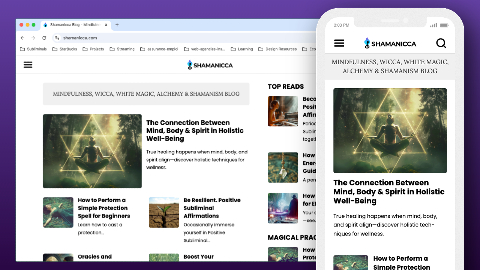
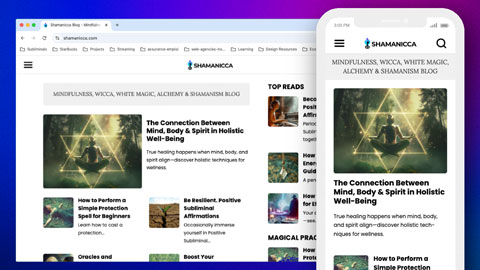
Fix: modifying URL for ecom Shamanicca

diff --git a/src/pages/HomePage.scss b/src/pages/HomePage.scss
@@ -17,8 +17,8 @@ header{
       justify-content: center;
       background-size: cover;
       //background-image:linear-gradient(rgba(0, 0, 0, 0), rgba(0, 0, 0, 1)),  url('../assets/images/header-bg-lg.jpg');
-      //background-image: linear-gradient(rgba(0, 0, 0, 0), rgba(0, 0, 0, 1)), url('../assets/images/header-bg-sm.jpg');
-      background-image: linear-gradient(rgba(0, 0, 0, 0), rgba(0, 0, 0, 1)), url('../assets/images/hero-background.png');
+      background-image: linear-gradient(rgba(0, 0, 0, 0), rgba(0, 0, 0, 1)), url('../assets/images/header-bg-sm.jpg');
+      //background-image: linear-gradient(rgba(0, 0, 0, 0), rgba(0, 0, 0, 1)), url('../assets/images/hero-background.png');
       
       //background-attachment: fixed;
       -webkit-backface-visibility: hidden;
@@ -27,21 +27,21 @@ header{
       @include for-tablet {
         padding-top: 0;
         padding-bottom: 0;
-        height: 66vh;
+        height: 100vh;
         //background-image:linear-gradient(rgba(0, 0, 0, 0), rgba(0, 0, 0, 1)),  url('../assets/images/header-bg-lg.jpg');
-        //background-image: linear-gradient(rgba(0, 0, 0, 0), rgba(0, 0, 0, 1)), url('../assets/images/header-bg-md.jpg');
-        background-image: linear-gradient(rgba(0, 0, 0, 0), rgba(0, 0, 0, 1)), url('../assets/images/hero-background.png');
+        background-image: linear-gradient(rgba(0, 0, 0, 0), rgba(0, 0, 0, 1)), url('../assets/images/header-bg-md.jpg');
+        //background-image: linear-gradient(rgba(0, 0, 0, 0), rgba(0, 0, 0, 1)), url('../assets/images/hero-background.png');
       }
       @include for-desktop {
         padding-top: 0vh;
         height: 100vh;
-        //background-image:linear-gradient(rgba(0, 0, 0, 0), rgba(0, 0, 0, 1)),  url('../assets/images/header-bg-lg.jpg');
-        background-image: linear-gradient(rgba(0, 0, 0, 0), rgba(0, 0, 0, 1)), url('../assets/images/hero-background.png');
+        background-image:linear-gradient(rgba(0, 0, 0, 0), rgba(0, 0, 0, 1)),  url('../assets/images/header-bg-lg.jpg');
+        //background-image: linear-gradient(rgba(0, 0, 0, 0), rgba(0, 0, 0, 1)), url('../assets/images/hero-background.png');
       }
       .container{
-
+        align-items: flex-start;
         flex-direction: column;
-
+        width: 100%;
         @include for-tablet {
           flex-direction: column;
           align-items: flex-start;
@@ -77,8 +77,8 @@ header{
        }
     }
     img{
-      border-radius: 120px;
-      width: 180px;
+      border-radius: 75px;
+      width: 150px;
       margin-bottom: 18px;
       display: flex;
       @include for-tablet {
@@ -92,10 +92,66 @@ header{
         margin-right: 30px;
        }
     }
+
+    // Light glitch effect wrapper and animation
+    .portrait-glitch {
+      position: relative;
+      display: inline-block;
+      overflow: hidden; // clip shine overlay to rounded image
+      border-radius: 120px;
+      will-change: transform;
+
+      @include for-tablet { border-radius: 180px; }
+      @include for-desktop { border-radius: 150px; }
+
+      // moving light sweep
+      &::after {
+        content: "";
+        position: absolute;
+        inset: -10%;
+        background: linear-gradient(
+          75deg,
+          rgba(255, 255, 255, 0) 40%,
+          rgba(255, 255, 255, 0.6) 50%,
+          rgba(255, 255, 255, 0) 60%
+        );
+        transform: translateX(-160%) rotate(10deg);
+        opacity: 0;
+        pointer-events: none;
+        mix-blend-mode: screen;
+        animation: portrait-shine 6s infinite ease-in-out;
+      }
+    }
+
+    .portrait-glitch__img {
+      display: block;
+      will-change: transform, filter;
+      animation: portrait-glitch-jitter 5s infinite steps(1);
+    }
+
+    @keyframes portrait-shine {
+      0%, 90% { opacity: 0; transform: translateX(-160%) rotate(10deg); }
+      92%   { opacity: 0.0; }
+      93%   { opacity: 0.85; }
+      95%   { opacity: 0; transform: translateX(160%) rotate(10deg); }
+      100%  { opacity: 0; transform: translateX(160%) rotate(10deg); }
+    }
+
+    // Short, punchy jitter + chromatic aberration burst only during ~0.2s every 6s
+    @keyframes portrait-glitch-jitter {
+      0%, 90%, 100% { transform: none; filter: none; }
+      92%   { transform: translate3d(0,0,0); filter: none; }
+      92.3% { transform: translate3d(-2px, 1px, 0); filter: contrast(1.15) saturate(1.2) drop-shadow(-2px 0 0 #ff0033) drop-shadow(2px 0 0 #00ffff); }
+      92.6% { transform: translate3d(2px, -1px, 0); filter: contrast(1.2)  saturate(1.25) drop-shadow(-2px 0 0 #ff0033) drop-shadow(2px 0 0 #00ffff); }
+      93%   { transform: none; filter: none; }
+      94%   { transform: translate3d(-1px, 0, 0); filter: contrast(1.1) drop-shadow(-1px 0 0 #ff0033) drop-shadow(1px 0 0 #00ffff); }
+      94.5% { transform: translate3d(1px, 0, 0); filter: contrast(1.1) drop-shadow(-1px 0 0 #ff0033) drop-shadow(1px 0 0 #00ffff); }
+      95%   { transform: none; filter: none; }
+    }
     .btn-group{
       display: flex;
-      flex-direction: row;
-      gap: 12px;
+      flex-direction: column;
+      gap: 30px;
       margin-top: 24px;
       @include for-tablet {
         flex-direction: row;
@@ -105,6 +161,18 @@ header{
       @include for-desktop {
         margin-top: 48px;
         gap: 24px;
+      }
+      .btn{
+        width: 100%;
+        max-width: 100%;
+        border-radius: 30px;;
+        padding: 15px 30px;
+        @include for-tablet {
+        max-width: fit-content;
+      }
+      @include for-desktop {
+        max-width: fit-content;
+      }
       }
     }
   }

diff --git a/src/data/projects.jsx b/src/data/projects.jsx
@@ -16,7 +16,7 @@ export const projects = [
       "ESLint",
       "Vercel",
     ],
-    githubLink: "https://github.com/maubayuelo/portfolio-dev",
+    githubLink: "https://github.com/maubayuelo/magneto-web-agency-site-GrapgQL",
     liveLink: "https://www.magnetomarketing.co/",
     internalLink: "",
   },
@@ -74,7 +74,7 @@ export const projects = [
   },
   {
     title: "Shamanicca Ecommerce",
-    image: "project-bio-page.jpg",
+    image: "project-ecommerce.jpg",
     description: `In‑progress D2C storefront using Next.js with a component-driven UI, product and shop pages, and integrations to WooCommerce for catalog/orders and Printful for on‑demand fulfillment.`,
     tags: [
       "Next.js",
@@ -83,11 +83,10 @@ export const projects = [
       "SCSS/Sass",
       "PostCSS",
       "WooCommerce REST API",
-      "Printful API",
       "Axios",
     ],
-    githubLink: "https://github.com/maubayuelo/shamanicca-bio.git",
-    liveLink: "https://demo.shamanicca.com/",
+    githubLink: "https://github.com/maubayuelo/shamanicca-ecommerce",
+    liveLink: "https://beta.shamanicca.com/",
     internalLink: "",
   },
   {

diff --git a/src/pages/HomePage.jsx b/src/pages/HomePage.jsx
@@ -19,7 +19,13 @@ const HomePage = () => {
             rootMargin="-10% 0px -10% 0px"
             delay={0}
           >
-            <img src={MauriciosPortrait} alt="Mauricio Bayuelo" />
+            <div className="portrait-glitch">
+              <img
+                className="portrait-glitch__img"
+                src={MauriciosPortrait}
+                alt="Mauricio Bayuelo"
+              />
+            </div>
           </FadeInSection>
 
           <div className="tagName">

diff --git a/src/components/InfiniteSlider.scss b/src/components/InfiniteSlider.scss
@@ -1,7 +1,16 @@
+@use "../styles/app" as *;
+
 .slider-container {
-    width: 100%; /* Adjust to fit your design */
+    width: 100%; /* Adjust to fit the design */
     overflow: hidden;
     position: relative;
+    margin-top: 30px;
+    @include for-tablet {
+      margin-top: 60px;
+    }
+    @include for-desktop {
+      margin-top: 60px;
+     }
   }
   
   .slider {
